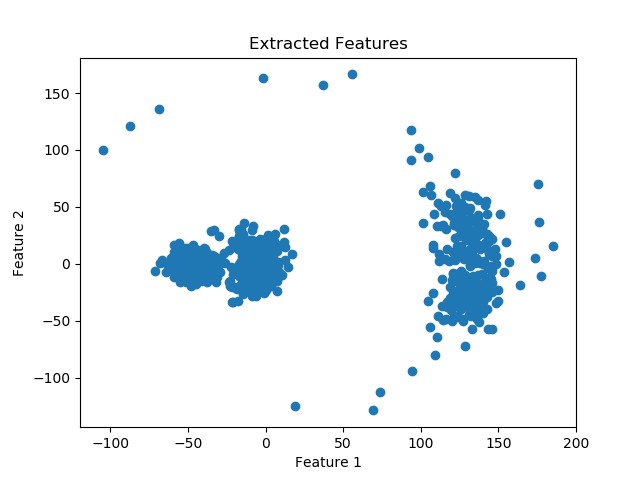
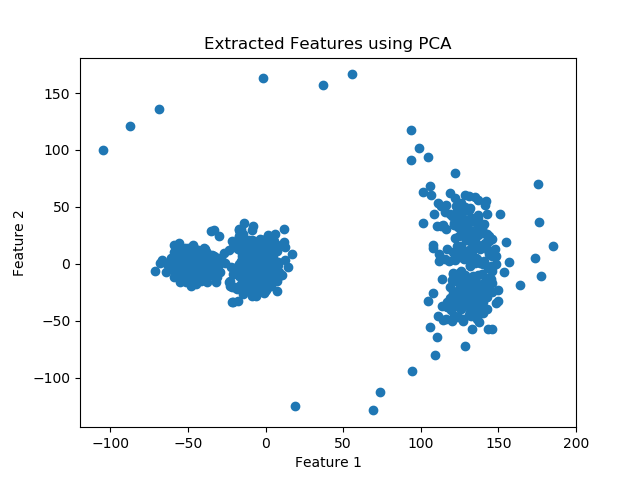
Small changes in the code

Changed region(s): [[0.3125, 0.0625, 0.7188, 0.125]]

diff --git a/Trial2.py b/Trial2.py
@@ -82,18 +82,7 @@ def PCA_analysis(AP):
     # setting PCA features as 2
     pca = PCA(n_components = 2)
     # transforming the data
-    transformed_data = pca.fit_transform(AP)
-      
-    fig = plt.figure()
-    # separating the columns to plot
-    data_1 = transformed_data[:,0]
-    data_2 = transformed_data[:,1]
-    # plotting the data as points
-    plt.scatter(data_1,data_2)
-    plt.title('Extracted Features')
-    plt.xlabel('Feature 1')
-    plt.ylabel('Feature 2')
-    fig.savefig('Extracted Features.png')
+    transformed_data = pca.fit_transform(AP)  
     
     return(transformed_data)
 
@@ -106,24 +95,10 @@ def cluster_Kmeans(data):
     # using KMeans function to identify clusters
     CLUSTER = KMeans(n_clusters = 3).fit(data)
 
-    # centroids = CLUSTER.cluster_centers_
-
-    fig = plt.figure()
-
     # assigning same integer values to data of same cluster
     color_indices = CLUSTER.predict(data)
 
-    data_1 = data[:,0]
-    data_2 = data[:,1]
-
-    plt.scatter(data_1, data_2, c=color_indices)
-    plt.title('Clustered Features')
-    plt.xlabel('Feature 1')
-    plt.ylabel('Feature 2')
-    fig.savefig('Clustered Features.png')
-
-    print(color_indices)
-
+    return(color_indices)
 
 
 if __name__ == "__main__":
@@ -140,14 +115,18 @@ if __name__ == "__main__":
         test_data.append(float(line[i]))
     Train_t = np.arange(0.0, 5.0 - dt, dt)
     Test_t = np.arange(5.0, 25.0, dt)
+
     Train_filtered = BFP(train_data, Train_t, dt)
+    
     fig = plt.figure()
     plt.plot(Train_t, Train_filtered)
     plt.title('Filtered Training Data')
     plt.xlabel('Time (seconds)')
     plt.ylabel('Voltage (mV)')
     fig.savefig('Filtered Training Data.png')
+
     NEO_filtered = NEO_function(Train_filtered)
+
     fig = plt.figure()
     plt.plot(Train_t, NEO_filtered)
     plt.title('NEO Training Data')
@@ -163,10 +142,27 @@ if __name__ == "__main__":
 
     extracted_features = PCA_analysis(AP)
 
-    cluster_Kmeans(extracted_features)
+    fig = plt.figure()
+    # separating the columns to plot
+    data_1 = extracted_features[:,0]
+    data_2 = extracted_features[:,1]
+    # plotting the data as points
+    plt.plot(data_1,data_2, 'o')
+    plt.title('Extracted Features using PCA')
+    plt.xlabel('Feature 1')
+    plt.ylabel('Feature 2')
+    fig.savefig('Extracted Features.png')
+
+    color_indices= cluster_Kmeans(extracted_features)
+
+    fig = plt.figure()
+    plt.scatter(data_1, data_2, c=color_indices)
+    plt.title('Clustered Features using KMeans')
+    plt.xlabel('Feature 1')
+    plt.ylabel('Feature 2')
+    fig.savefig('Clustered Features.png')
 
     plt.show()
-
     
    
 

diff --git a/Final.py b/Final.py
@@ -74,25 +74,15 @@ def Align_peaks(dt, fs, NEO_filtered, Train_filtered):
 
     return(APs)
 
-def PCA_analysis(X_train):
+def PCA_analysis(AP):
     '''
     Extracting features using PCA analysis
     '''
     # setting PCA features as 2
     pca = PCA(n_components = 2)
     # transforming the data
-    transformed_data = pca.fit_transform(X_train)  
-    fig = plt.figure()
-    # separating the columns to plot
-    data_1 = transformed_data[:,0]
-    data_2 = transformed_data[:,1]
-    # plotting the data as points
-    plt.plot(data_1,data_2, 'o')
-    plt.title('Extracted Features')
-    plt.xlabel('Feature 1')
-    plt.ylabel('Feature 2')
-    fig.savefig('Extracted Features.png')
-
+    transformed_data = pca.fit_transform(AP)  
+    
     return(transformed_data)
 
 def cluster_Kmeans(data):
@@ -104,23 +94,10 @@ def cluster_Kmeans(data):
     # using KMeans function to identify clusters
     CLUSTER = KMeans(n_clusters = 3).fit(data)
 
-    # centroids = CLUSTER.cluster_centers_
-
-    fig = plt.figure()
-
     # assigning same integer values to data of same cluster
     color_indices = CLUSTER.predict(data)
 
-    data_1 = data[:,0]
-    data_2 = data[:,1]
-
-    plt.scatter(data_1, data_2, c=color_indices)
-    plt.title('Clustered Features using KMeans')
-    plt.xlabel('Feature 1')
-    plt.ylabel('Feature 2')
-    fig.savefig('Clustered Features.png')
-
-
+    return(color_indices)
 
 if __name__ == "__main__":
     file = open('NII_Data.csv')
@@ -158,6 +135,24 @@ if __name__ == "__main__":
 
     extracted_features = PCA_analysis(AP)
 
-    cluster_Kmeans(extracted_features)
+    fig = plt.figure()
+    # separating the columns to plot
+    data_1 = extracted_features[:,0]
+    data_2 = extracted_features[:,1]
+    # plotting the data as points
+    plt.plot(data_1,data_2, 'o')
+    plt.title('Extracted Features using PCA')
+    plt.xlabel('Feature 1')
+    plt.ylabel('Feature 2')
+    fig.savefig('Extracted Features.png')
+
+    color_indices= cluster_Kmeans(extracted_features)
+
+    fig = plt.figure()
+    plt.scatter(data_1, data_2, c=color_indices)
+    plt.title('Clustered Features using KMeans')
+    plt.xlabel('Feature 1')
+    plt.ylabel('Feature 2')
+    fig.savefig('Clustered Features.png')
 
     plt.show()
